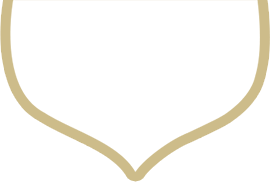
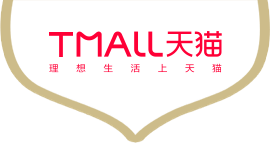
update

diff --git a/src/assets/style/main.less b/src/assets/style/main.less
@@ -160,13 +160,23 @@ a {
 }
 .ad{
 	width: 270/@base;
-	height: 182/@base;
+	height: 143/@base;
 	position: absolute;
 	top: 0;
 	left: 90/@base;
 	background: url(../ad.png)  no-repeat center;
 	background-size: contain;
 	font-size: 28/@base;
+	span{
+		position: relative;
+		display: block;
+		margin: 0 auto;
+		width:173/@base;
+		height: 42/@base;
+		top: 31/@base;
+		/*background: url(../tianmao.png)  no-repeat center;*/
+		background-size: contain;
+	}
 }
 .main{
 	background: url(../bg.png) center center;

diff --git a/config/config.js b/config/config.js
@@ -6,7 +6,8 @@ module.exports = {
   },
   testing : {
   	a : 1,
-  	assetsPublicPath : '"http://127.0.0.1:8081"'
+  	// assetsPublicPath : '"http://ued.beta.scloud.letv.cn:8888/le_h5/worldcup/"'
+    assetsPublicPath : '"http://static2-scloud.cp21.ott.cibntv.net/le_h5/worldcup/"'
   },
   development : {
   	"apiRoot" :'"http://ued.beta.scloud.letv.cn:8181/"',

diff --git a/src/pages/index/index.vue b/src/pages/index/index.vue
@@ -2,7 +2,7 @@
     <div>
     	<rule v-if="showrule"></rule>
         <div v-if="!showrule">
-	        <!-- <div class="ad"></div> -->
+	        <div class="ad"></div>
 			<div class="title"></div>
 		  	<div class="main">
 				<div class="tab">
